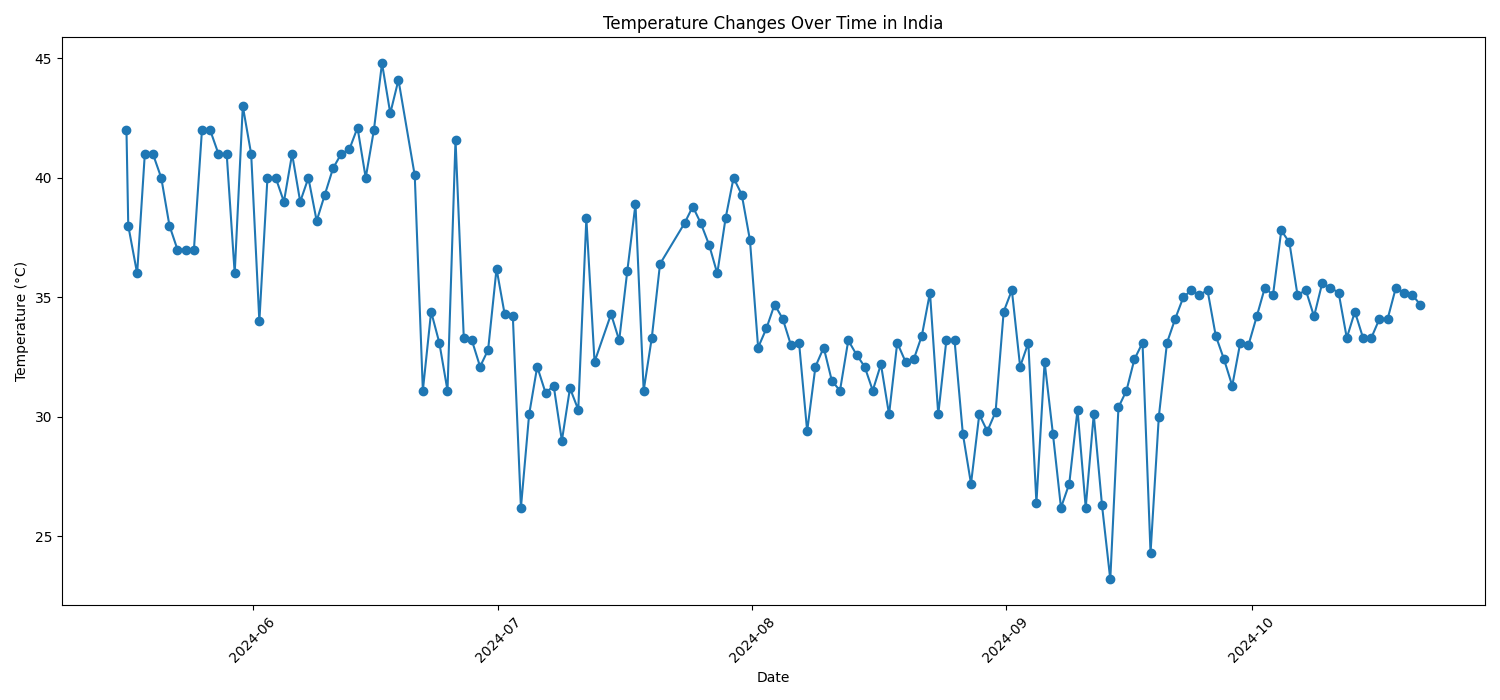
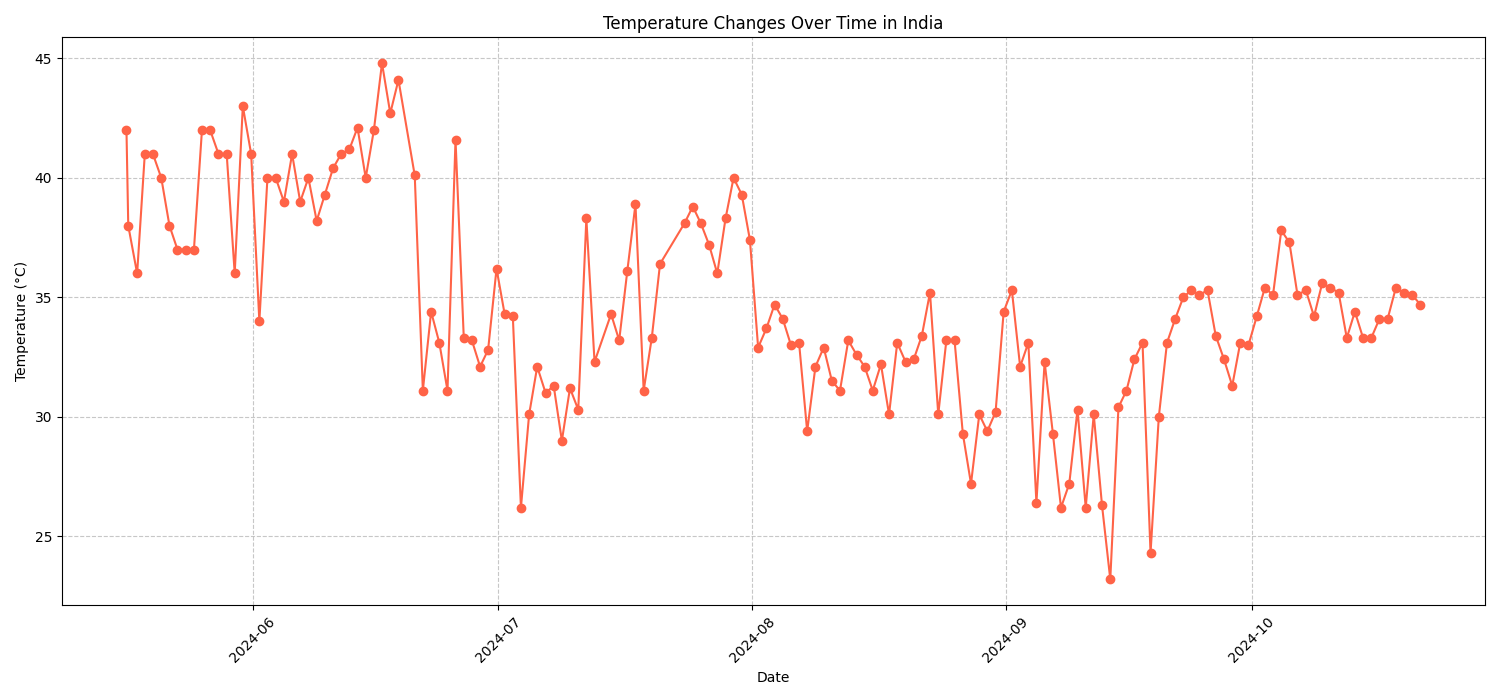
Final Push, complete

diff --git a/scripts/streamlit_app.py b/scripts/streamlit_app.py
@@ -1,13 +1,12 @@
 import streamlit as st
 import pandas as pd
-import requests
 import plotly.express as px
 import time
-import json
+import numpy as np
 
 # Set the page configuration
 st.set_page_config(
-    page_title="Global Weather Dashboard",
+    page_title="🌍 Global Weather Dashboard",
     layout="wide",
 )
 
@@ -27,40 +26,34 @@ st.title("🌍 Global Weather Dashboard")
 st.sidebar.title("Navigation")
 selection = st.sidebar.radio("Go to", ["Data Dashboard", "Live Data Updates"])
 
+# Load the cleaned data
+@st.cache_data
+def load_data():
+    df = pd.read_csv('data/clean/global_weather_cleaned.csv')
+    return df
+
+df = load_data()
+
 # Data Dashboard Section
 if selection == "Data Dashboard":
     st.header("📊 Data Dashboard")
 
     # Sidebar Filters
     st.sidebar.subheader("Filters")
-    # Assuming you have a list of unique countries
-    @st.cache_data
-    def get_country_list():
-        response = requests.get('http://localhost:5000/data')
-        data = response.json()
-        df_countries = pd.DataFrame(data)
-        country_list = df_countries['country'].unique().tolist()
-        country_list.sort()
-        country_list.insert(0, 'All')
-        return country_list
-
-    country_list = get_country_list()
+    country_list = df['country'].unique().tolist()
+    country_list.sort()
+    country_list.insert(0, 'All')
     selected_country = st.sidebar.selectbox("Select Country", country_list)
     date_input = st.sidebar.text_input("Date (YYYY-MM-DD)")
 
-    # Fetch data from the Flask API
-    @st.cache_data
-    def load_data(country, date):
-        params = {}
-        if country and country != 'All':
-            params['country'] = country
-        if date:
-            params['date'] = date
-        response = requests.get('http://localhost:5000/data', params=params)
-        data = response.json()
-        return pd.DataFrame(data)
+    # Apply filters
+    if selected_country != 'All':
+        df_filtered = df[df['country'] == selected_country]
+    else:
+        df_filtered = df.copy()
 
-    df_filtered = load_data(selected_country, date_input)
+    if date_input:
+        df_filtered = df_filtered[df_filtered['last_updated'].str.contains(date_input)]
 
     # Display data
     st.write("### Filtered Data")
@@ -72,11 +65,23 @@ if selection == "Data Dashboard":
         col1, col2 = st.columns(2)
         with col1:
             st.subheader("🌡 Temperature Distribution")
-            fig = px.histogram(df_filtered, x='temperature_celsius', nbins=50, title='Temperature Distribution', color_discrete_sequence=['#FF4B4B'])
+            fig = px.histogram(
+                df_filtered,
+                x='temperature_celsius',
+                nbins=50,
+                title='Temperature Distribution',
+                color_discrete_sequence=['#FF4B4B']
+            )
             st.plotly_chart(fig, use_container_width=True)
         with col2:
             st.subheader("💧 Humidity Distribution")
-            fig = px.histogram(df_filtered, x='humidity', nbins=50, title='Humidity Distribution', color_discrete_sequence=['#1f77b4'])
+            fig = px.histogram(
+                df_filtered,
+                x='humidity',
+                nbins=50,
+                title='Humidity Distribution',
+                color_discrete_sequence=['#1f77b4']
+            )
             st.plotly_chart(fig, use_container_width=True)
     else:
         st.warning("No data available for the selected filters.")
@@ -87,33 +92,42 @@ elif selection == "Live Data Updates":
 
     # Placeholder for the live plot
     placeholder = st.empty()
+    df_live = pd.DataFrame(columns=['last_updated', 'temperature_celsius', 'country'])
 
-    # Initialize an empty DataFrame
-    df_live = pd.DataFrame(columns=['last_updated', 'temperature_celsius'])
+    # Simulate data for top 5 countries
+    top_countries = df['country'].value_counts().head(5).index.tolist()
+    df_simulated = df[df['country'].isin(top_countries)].reset_index(drop=True)
 
-    # Stream data from the Flask API
-    with st.spinner("Connecting to live data stream..."):
-        response = requests.get('http://localhost:5000/stream', stream=True)
-        if response.encoding is None:
-            response.encoding = 'utf-8'
+    # Simulate live data updates
+    for _ in range(60):  # Simulate 60 data points
+        # Randomly select a country
+        country = df_simulated.sample(1).iloc[0]
+        # Generate data with random fluctuation
+        data = {
+            'last_updated': pd.Timestamp.now(),
+            'temperature_celsius': country['temperature_celsius'] + np.random.normal(0, 0.5),
+            'country': country['country']
+        }
+        df_live = pd.concat([df_live, pd.DataFrame([data])], ignore_index=True)
 
-        # Process streaming data
-        for line in response.iter_lines(decode_unicode=True):
-            if line and line.startswith("data:"):
-                json_data = line.replace("data:", "")
-                data = json.loads(json_data)
+        # Convert 'last_updated' to datetime
+        df_live['last_updated'] = pd.to_datetime(df_live['last_updated'])
 
-                # Use pd.concat instead of append
-                df_live = pd.concat([df_live, pd.DataFrame([data])], ignore_index=True)
-
-                # Convert 'last_updated' to datetime if necessary
-                if 'last_updated' in df_live.columns:
-                    df_live['last_updated'] = pd.to_datetime(df_live['last_updated'])
-
-                # Update live plot
-                with placeholder.container():
-                    if not df_live.empty:
-                        fig = px.line(df_live, x='last_updated', y='temperature_celsius', title='Live Temperature Updates', markers=True)
-                        fig.update_layout(xaxis_title='Time', yaxis_title='Temperature (°C)')
-                        st.plotly_chart(fig, use_container_width=True)
-                time.sleep(1)
+        # Update live plot
+        with placeholder.container():
+            if not df_live.empty:
+                fig = px.line(
+                    df_live,
+                    x='last_updated',
+                    y='temperature_celsius',
+                    color='country',
+                    title='Live Temperature Updates',
+                    markers=True
+                )
+                fig.update_layout(
+                    xaxis_title='Time',
+                    yaxis_title='Temperature (°C)',
+                    legend_title='Country'
+                )
+                st.plotly_chart(fig, use_container_width=True)
+        time.sleep(1)

diff --git a/scripts/data_analysis.py b/scripts/data_analysis.py
@@ -51,16 +51,16 @@ country_avg_temp = df.groupby('country')['temperature_celsius'].mean().reset_ind
 
 # Sort by average temperature
 country_avg_temp_sorted = country_avg_temp.sort_values(by='temperature_celsius', ascending=False)
-
 print("\nAverage Temperature by Country (Top 10):")
 print(country_avg_temp_sorted.head(10))
 
 # Plot a histogram of temperatures
 plt.figure(figsize=(10, 6))
-sns.histplot(df['temperature_celsius'], bins=30, kde=True)
+sns.histplot(df['temperature_celsius'], bins=30, kde=True, color='royalblue')
 plt.title('Distribution of Global Temperatures')
 plt.xlabel('Temperature (°C)')
 plt.ylabel('Frequency')
+plt.tight_layout()
 
 # Save the figure
 histogram_path = os.path.join(figures_dir, 'temperature_histogram.png')
@@ -73,7 +73,7 @@ if not np.issubdtype(df['last_updated'].dtype, np.datetime64):
 
 # Filter data for a specific country (e.g., India)
 country_name = 'india'
-df_country = df[df['country'] == country_name]
+df_country = df[df['country'].str.lower() == country_name]
 
 # Check if the DataFrame is not empty
 if not df_country.empty:
@@ -82,11 +82,12 @@ if not df_country.empty:
 
     # Plot temperature over time
     plt.figure(figsize=(15, 7))
-    plt.plot(df_country['last_updated'], df_country['temperature_celsius'], marker='o', linestyle='-')
+    plt.plot(df_country['last_updated'], df_country['temperature_celsius'], marker='o', linestyle='-', color='tomato')
     plt.title(f'Temperature Changes Over Time in {country_name.title()}')
     plt.xlabel('Date')
     plt.ylabel('Temperature (°C)')
     plt.xticks(rotation=45)
+    plt.grid(True, linestyle='--', alpha=0.7)
     plt.tight_layout()
 
     # Save the figure
@@ -96,14 +97,61 @@ if not df_country.empty:
 else:
     print(f"No data available for country: {country_name}")
 
-# Optional: Additional visualization - Bar chart of average humidity by country
-# Compute average humidity by country
-country_avg_humidity = df.groupby('country')['humidity'].mean().reset_index()
+# Additional visualization - Top 10 locations with the highest precipitation
+top10_precip = df.sort_values(by='precip_mm', ascending=False).head(10)
 
-# Sort and select top 10 countries with highest average humidity
+plt.figure(figsize=(12, 6))
+sns.barplot(x='location_name', y='precip_mm', data=top10_precip, palette='Blues_d')
+plt.title('Top 10 Locations with Highest Precipitation')
+plt.xlabel('Location')
+plt.ylabel('Precipitation (mm)')
+plt.xticks(rotation=45)
+plt.tight_layout()
+
+# Save the figure
+precip_path = os.path.join(figures_dir, 'top10_highest_precipitation.png')
+plt.savefig(precip_path)
+plt.show()
+
+# Average wind speed by country
+country_avg_wind = df.groupby('country')['wind_kph'].mean().reset_index()
+top10_wind_countries = country_avg_wind.sort_values(by='wind_kph', ascending=False).head(10)
+
+plt.figure(figsize=(12, 6))
+sns.barplot(x='country', y='wind_kph', data=top10_wind_countries, palette='coolwarm')
+plt.title('Top 10 Countries with Highest Average Wind Speed')
+plt.xlabel('Country')
+plt.ylabel('Average Wind Speed (kph)')
+plt.xticks(rotation=45)
+plt.tight_layout()
+
+# Save the figure
+wind_path = os.path.join(figures_dir, 'top10_avg_wind_speed.png')
+plt.savefig(wind_path)
+plt.show()
+
+# Line Plot of Average Daily Temperature Globally
+df['date'] = df['last_updated'].dt.date
+avg_temp_per_day = df.groupby('date')['temperature_celsius'].mean().reset_index()
+
+plt.figure(figsize=(14, 7))
+plt.plot(avg_temp_per_day['date'], avg_temp_per_day['temperature_celsius'], marker='o', color='royalblue')
+plt.title('Average Global Temperature per Day')
+plt.xlabel('Date')
+plt.ylabel('Average Temperature (°C)')
+plt.xticks(rotation=45)
+plt.grid(True, linestyle='--', alpha=0.7)
+plt.tight_layout()
+
+# Save the figure
+avg_temp_path = os.path.join(figures_dir, 'avg_global_temp_per_day.png')
+plt.savefig(avg_temp_path)
+plt.show()
+
+# Optional: Bar chart of average humidity by country
+country_avg_humidity = df.groupby('country')['humidity'].mean().reset_index()
 top10_humid_countries = country_avg_humidity.sort_values(by='humidity', ascending=False).head(10)
 
-# Plot bar chart
 plt.figure(figsize=(12, 6))
 sns.barplot(x='country', y='humidity', data=top10_humid_countries, palette='viridis')
 plt.title('Top 10 Countries with Highest Average Humidity')
@@ -113,9 +161,6 @@ plt.xticks(rotation=45)
 plt.tight_layout()
 
 # Save the figure
-bar_chart_path = os.path.join(figures_dir, 'top10_humid_countries.png')
-plt.savefig(bar_chart_path)
+humidity_path = os.path.join(figures_dir, 'top10_humid_countries.png')
+plt.savefig(humidity_path)
 plt.show()
-
-
-# shows future warning, can ignore.

diff --git a/readme.md b/readme.md
@@ -237,3 +237,40 @@ python scripts/kafka_consumer.py
 **Run MongoDB Queries:**
 - Use the Filter and Sort fields in MongoDB Compass.
 - Copy queries from `queries/mongodb_queries.txt`.
+
+### 5. Streamlit Web Application
+
+**Setup:**
+- Ensure that the Flask API is running locally or adjust the Streamlit app to read data directly from the local CSV for easier deployment.
+- The Streamlit app provides two sections:
+  - **Data Dashboard:** Visualize filtered weather data with options to filter by country and date.
+  - **Live Data Updates:** Display live weather data streamed through Kafka.
+
+**Run Locally:**
+```bash
+streamlit run scripts/streamlit_app.py
+```
+
+### Hosted Streamlit App
+
+The Streamlit app is deployed on Streamlit Cloud. You can access the live application using the following link:
+
+[https://globalweatherapp-ju74srmfvtzuxd2wqop9ae.streamlit.app/](#)
+
+
+### Additional Notes
+- Ensure that the Flask API is running before starting the Streamlit app for live data streaming.
+- Adjust Kafka configuration (e.g., `bootstrap.servers`) based on your local setup.
+- This project is designed to be a learning experience and showcases end-to-end data processing, analysis, and visualization techniques.
+
+### Credits
+- Weather data provided by Kaggle - Global Weather Repository.
+- Built using Python, Pandas, Streamlit, Flask, MySQL, MongoDB, and Apache Kafka.
+
+### Contact Information
+For any queries or collaboration, feel free to reach out:
+
+- **Name:** Lee Pettigrew
+- **Email:** X20730039@student.ncirl.ie
+
+
